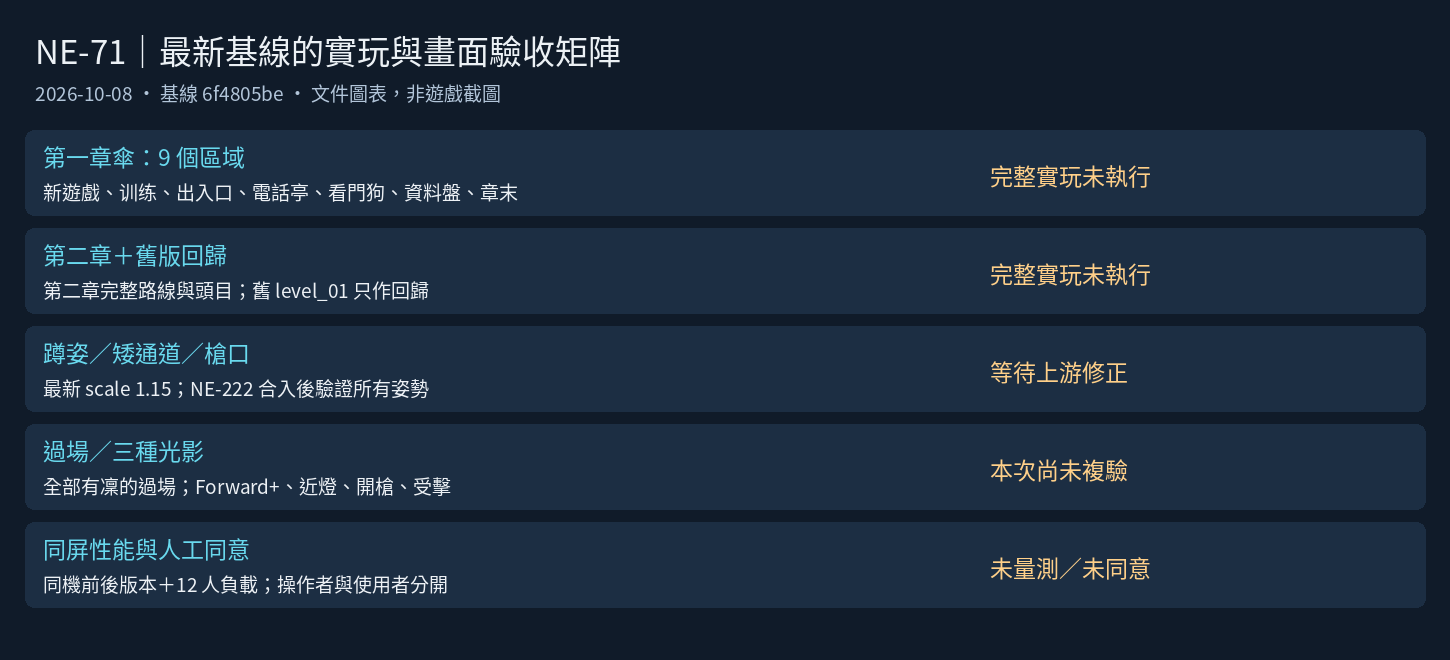
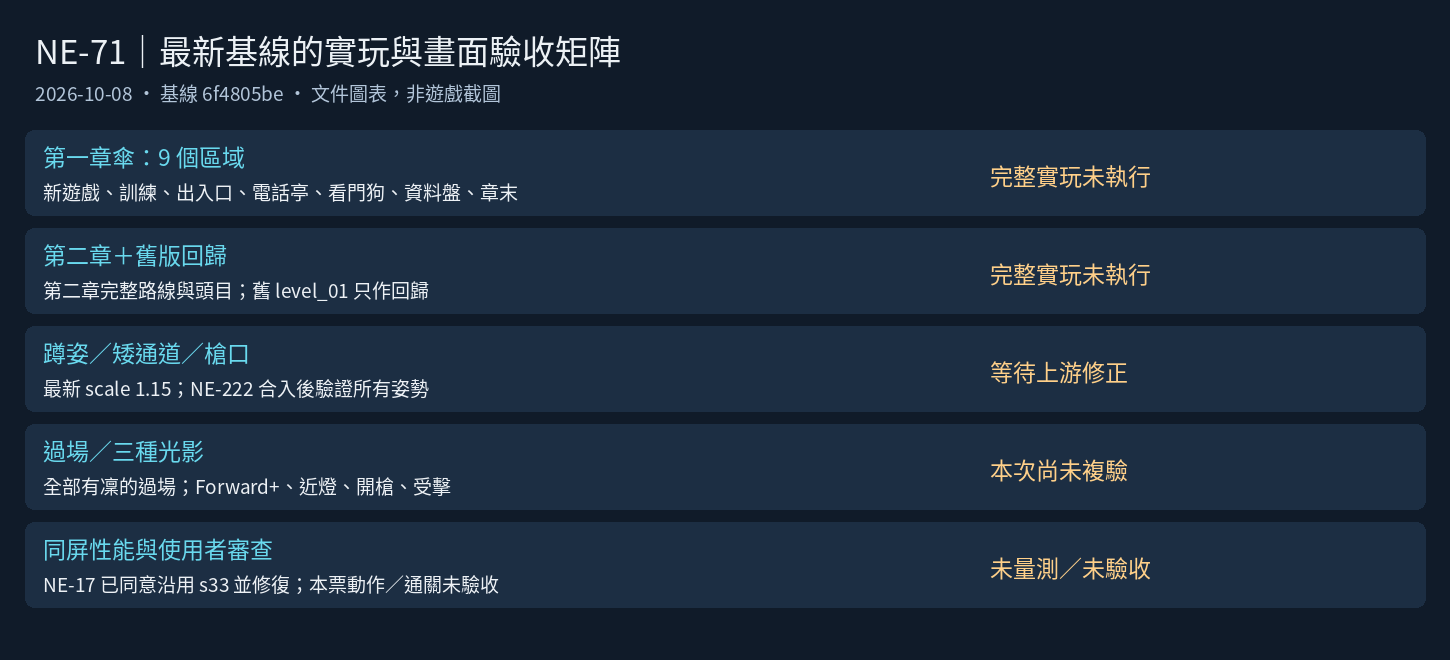
[NE-71] 承接凜定稿沿用同意並區分通關驗收

Changed region(s): [[0.031, 0.8182, 0.3414, 0.9091], [0.7448, 0.8485, 0.8069, 0.8788], [0.0621, 0.2727, 0.1241, 0.303]]

diff --git a/pm/Nest-Egg/[NE-71]驗證凜新外觀在遊戲內的表現.md b/pm/Nest-Egg/[NE-71]驗證凜新外觀在遊戲內的表現.md
@@ -40,7 +40,7 @@
 
 ### 本次複驗基準（2026-10-08）
 
-歷史結果保留在 Commit-1；上方條件改為最新上游合入後的複驗條件，本次尚未勾選。NE-222（待辦）的蹲姿、接縫、外套、左右手及開場修正尚未合入；第一章過場基線 ST-9／ST-10、序章 ST-16 尚未交付，最終光影配置須待 Session 5 合入後記錄其 commit。NE-17 的使用者覆蓋同意仍未勾選，工程複驗與使用者同意分開。
+歷史結果保留在 Commit-1；上方條件改為最新上游合入後的複驗條件，本次尚未勾選。NE-222（待辦）的蹲姿、接縫、外套、左右手及開場修正尚未合入；第一章過場基線 ST-9／ST-10、序章 ST-16 尚未交付，最終光影配置須待 Session 5 合入後記錄其 commit。NE-17 已在 `484085b6` 記錄使用者「同意沿用定稿並修復」，狀態審查中；此同意不追認歷史覆蓋批准，也不替代本票通關與 NE-222 修後動作複驗。
 
 本次只核對最新資料並準備矩陣，不把歷史的 144 幀、淨高 64 或舊圖當成本次量測。
 
@@ -176,3 +176,23 @@
 ### 截圖
 
 ![驗收矩陣文件圖表；不是遊戲畫面或通關證據](images/NE-71-review-matrix.png)
+
+# Commit-3
+
+## 內文
+
+承接推送期間新合入的 NE-17 預覽與使用者同意，校正本票當前依賴資訊。使用者接受沿用 s33 並修復，與完整實玩、修後動作、實機性能分開記錄；本票狀態與複驗條件維持未完成。
+
+### 測試結果
+
+| 項目 | 結果 |
+|---|---|
+| 上游預覽與同意核對 | 152ea056 的現行凜預覽、484085b6 的明確同意紀錄已核對，兩張原圖已實看 |
+| 受影響測試選擇 | 本次只有依賴紀錄與文件圖表，無遊戲套件；未執行人工通關或性能量測 |
+| 文件引用與圖表 | 文件圖表已更新，同意範圍不擴大為動作驗收 |
+
+### 截圖
+
+![目前驗收矩陣文件圖表；仍非通關證據](images/NE-71-review-matrix.png)
+
+![承接上游的凜現行外觀；NE-222 修復前版本](images/NE-17-session-current-closeup.png)
